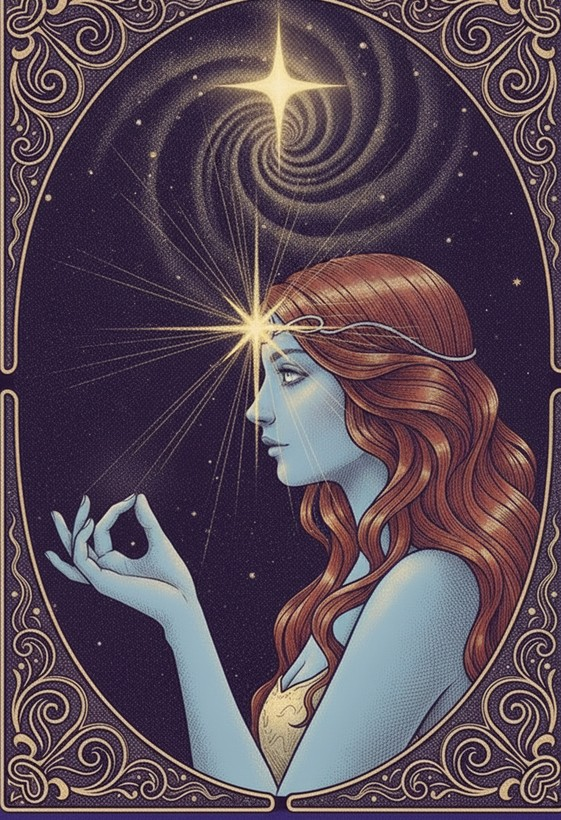
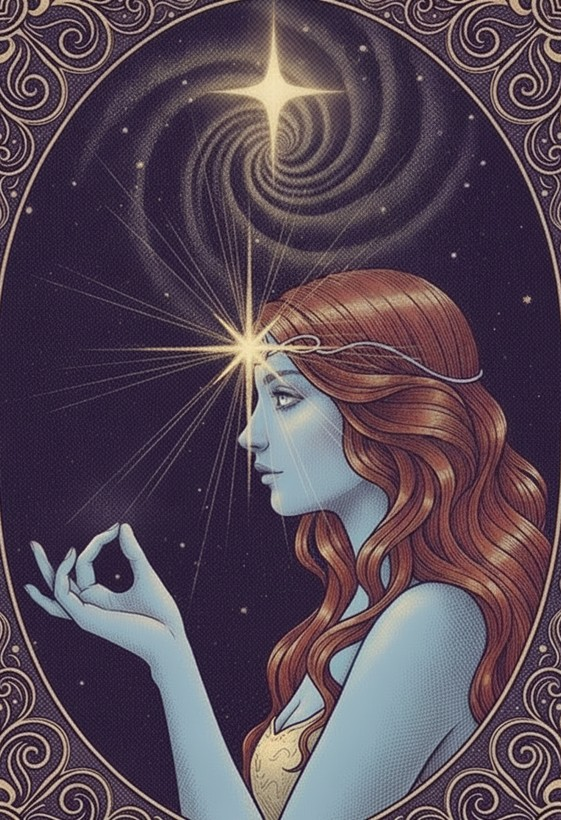
Fix hand/arm handedness on The Seeker and The Insight cards (correct left hand on left arm); cache-bust step-1/step-3 references

diff --git a/how-it-works.html b/how-it-works.html
@@ -42,9 +42,9 @@
     <div class="wrap">
       <div class="sec-head center reveal"><span class="eyebrow">The Arc of a Reading</span><h2>Three movements, one clarity</h2><p>Every reading follows the same quiet arc. You arrive with a question, a guide is summoned to meet it, and the two of you connect.</p></div>
       <div class="steps3">
-        <div class="tcard reveal" data-d="1"><div class="img"><img src="assets/steps/step-1.jpg" alt="The Seeker" /><span class="cart"><span class="n">I</span>The Seeker</span></div><h3>You ask</h3><p>You bring a question to the cosmos. Love, work, a crossroads, a person you cannot read. Naming it is the first turn of the key.</p></div>
+        <div class="tcard reveal" data-d="1"><div class="img"><img src="assets/steps/step-1.jpg?v=2" alt="The Seeker" /><span class="cart"><span class="n">I</span>The Seeker</span></div><h3>You ask</h3><p>You bring a question to the cosmos. Love, work, a crossroads, a person you cannot read. Naming it is the first turn of the key.</p></div>
         <div class="tcard reveal" data-d="2"><div class="img"><img src="assets/steps/step-2.jpg" alt="The Oracle" /><span class="cart"><span class="n">II</span>The Oracle</span></div><h3>A guide is summoned</h3><p>We match you with a rigorously vetted psychic whose gift fits your question. Fewer than one in twenty applicants ever reach you.</p></div>
-        <div class="tcard reveal" data-d="3"><div class="img"><img src="assets/steps/step-3.jpg" alt="The Insight" /><span class="cart"><span class="n">III</span>The Insight</span></div><h3>You see clearly</h3><p>The reading resolves into something you can hold. Clarity arrives, and you leave knowing your next step, not just words you nodded along to.</p></div>
+        <div class="tcard reveal" data-d="3"><div class="img"><img src="assets/steps/step-3.jpg?v=2" alt="The Insight" /><span class="cart"><span class="n">III</span>The Insight</span></div><h3>You see clearly</h3><p>The reading resolves into something you can hold. Clarity arrives, and you leave knowing your next step, not just words you nodded along to.</p></div>
       </div>
     </div>
   </section>

diff --git a/index.html b/index.html
@@ -832,13 +832,13 @@
     </div>
     <div class="steps">
       <div class="step reveal" data-d="1">
-        <div class="step-img"><img src="assets/steps/step-1.jpg" alt="The Seeker — a crowned woman turning her question to the cosmos" loading="lazy" decoding="async" /><span class="step-name"><span class="n">I</span>The Seeker</span></div>
+        <div class="step-img"><img src="assets/steps/step-1.jpg?v=2" alt="The Seeker — a crowned woman turning her question to the cosmos" loading="lazy" decoding="async" /><span class="step-name"><span class="n">I</span>The Seeker</span></div>
         <h3>Create your account</h3><p>A few private details and your account is ready. Your first reading is moments away.</p></div>
       <div class="step reveal" data-d="2">
         <div class="step-img"><img src="assets/steps/step-2.jpg" alt="The Oracle — a crowned psychic summoned in golden light" loading="lazy" decoding="async" /><span class="step-name"><span class="n">II</span>The Oracle</span></div>
         <h3>Choose your psychic</h3><p>Browse by gift and specialty. Read real reviews. Trust the connection that resonates.</p></div>
       <div class="step reveal" data-d="3">
-        <div class="step-img"><img src="assets/steps/step-3.jpg" alt="The Insight — the seeker awakened, a star of clarity at her brow" loading="lazy" decoding="async" /><span class="step-name"><span class="n">III</span>The Insight</span></div>
+        <div class="step-img"><img src="assets/steps/step-3.jpg?v=2" alt="The Insight — the seeker awakened, a star of clarity at her brow" loading="lazy" decoding="async" /><span class="step-name"><span class="n">III</span>The Insight</span></div>
         <h3>Receive your reading</h3><p>Connect by phone, chat, or video and leave with the clarity to move forward.</p></div>
     </div>
   </div>

diff --git a/tarot.html b/tarot.html
@@ -47,9 +47,9 @@
     <div class="wrap">
       <div class="sec-head center reveal"><span class="eyebrow">The Arcana</span><h2>Three faces of a reading</h2><p>Every reading moves through these figures. The one who asks, the one who sees, and the clarity that arrives.</p></div>
       <div class="cards3">
-        <div class="tarot-card reveal" data-d="1"><div class="img"><img src="assets/steps/step-1.jpg" alt="The Seeker" /></div><h3>The Seeker</h3><p>You, and the honest question you carry. The reading begins the moment you name what you truly want to know.</p></div>
+        <div class="tarot-card reveal" data-d="1"><div class="img"><img src="assets/steps/step-1.jpg?v=2" alt="The Seeker" /></div><h3>The Seeker</h3><p>You, and the honest question you carry. The reading begins the moment you name what you truly want to know.</p></div>
         <div class="tarot-card reveal" data-d="2"><div class="img"><img src="assets/steps/step-2.jpg" alt="The Oracle" /></div><h3>The Oracle</h3><p>Your psychic, reading the cards as they fall. Symbol, position, and intuition woven into something you can act on.</p></div>
-        <div class="tarot-card reveal" data-d="3"><div class="img"><img src="assets/steps/step-3.jpg" alt="The Insight" /></div><h3>The Insight</h3><p>The moment the cards stop being pictures and become yours. Clarity arrives, and you leave knowing what you came to find.</p></div>
+        <div class="tarot-card reveal" data-d="3"><div class="img"><img src="assets/steps/step-3.jpg?v=2" alt="The Insight" /></div><h3>The Insight</h3><p>The moment the cards stop being pictures and become yours. Clarity arrives, and you leave knowing what you came to find.</p></div>
       </div>
     </div>
   </section>